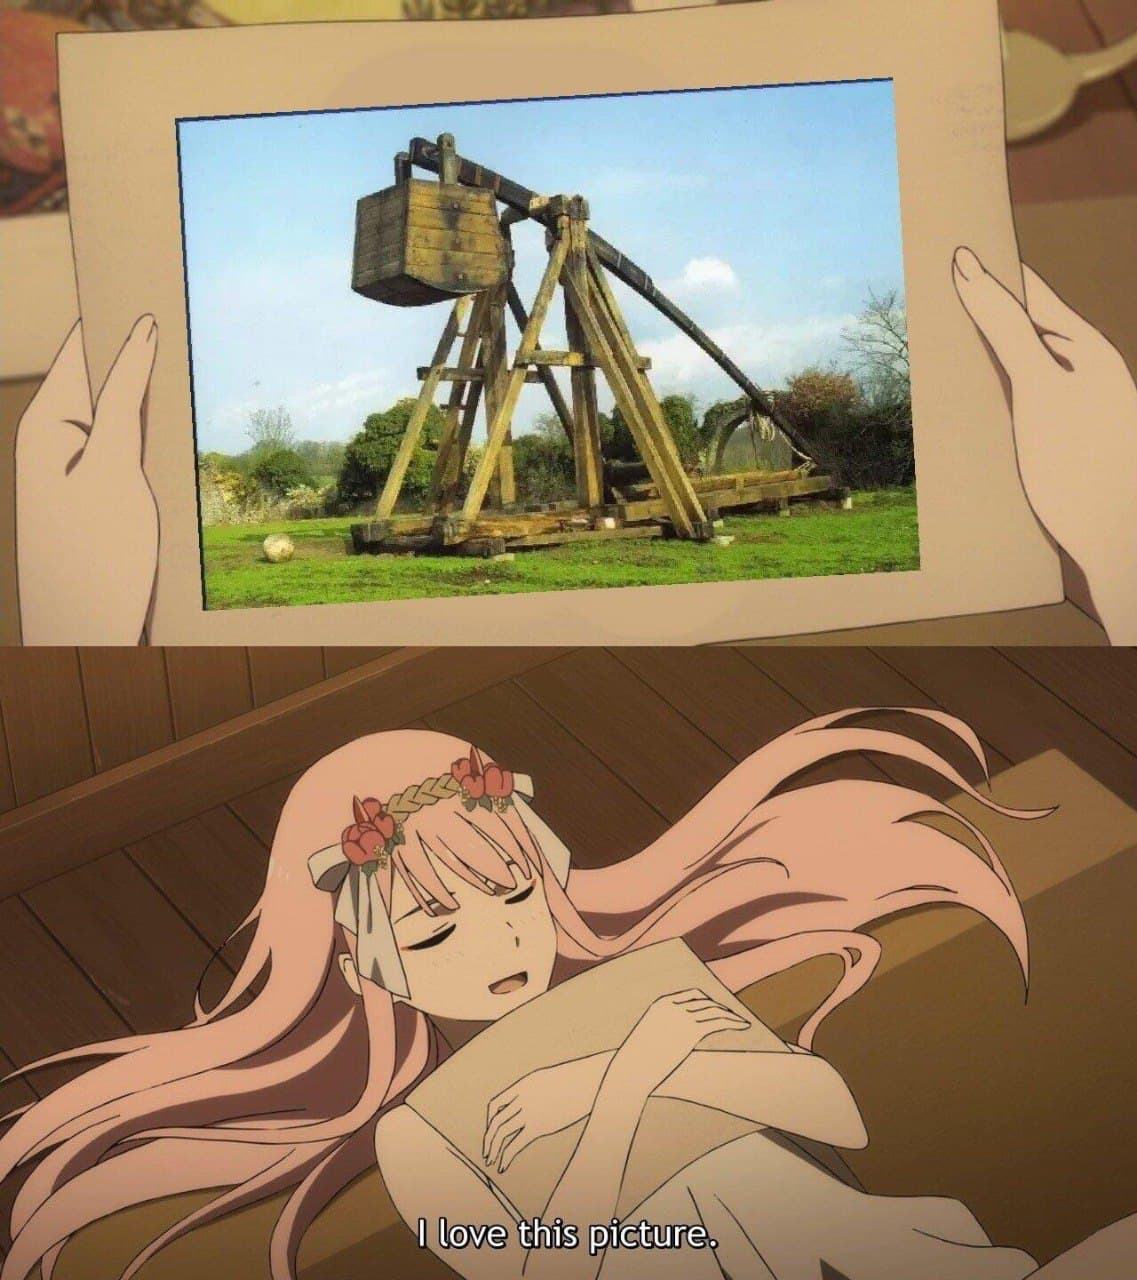
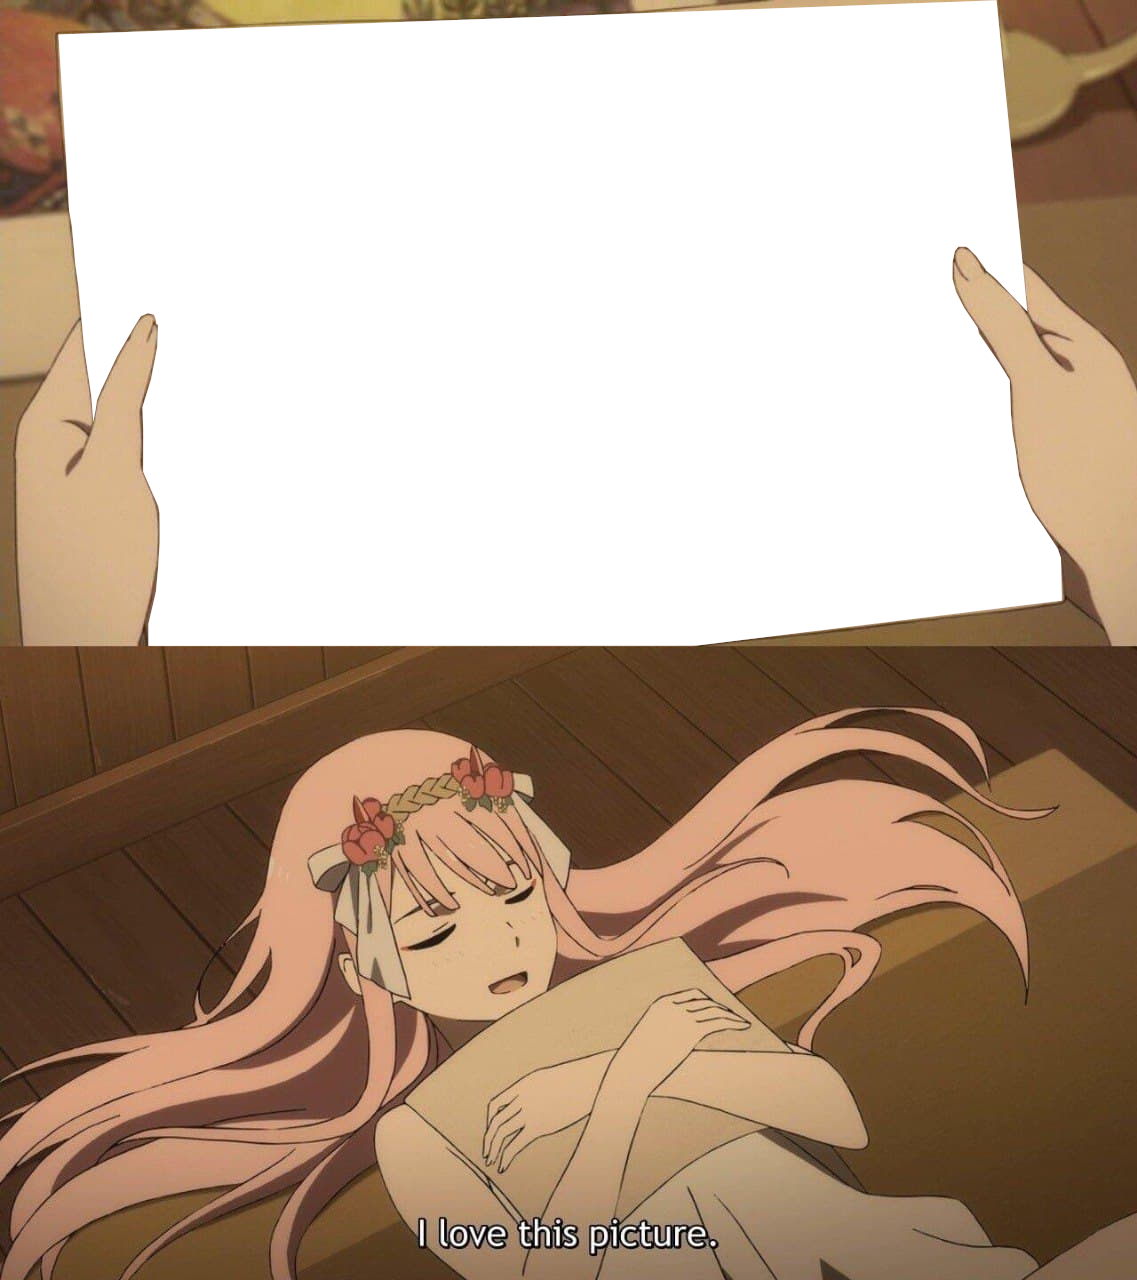
added LICK

diff --git a/meming.py b/meming.py
@@ -1,23 +1,24 @@
+import os
 from ast import literal_eval
 from utils import find_coeffs
 from PIL import Image, ImageOps
 
-template = '2b'
+template = 'lick'
 img = Image.open('input.png')
 
 bg = Image.open(f'templates/{template}/bg.png')
-mask = Image.open(f'templates/{template}/mask.png')
-# preview = Image.open(f'templates/{template}/preview.png')
+masks = [Image.open(f'templates/{template}/{m}') for m in filter(lambda x: x.startswith('mask'), os.listdir(f'templates/{template}'))]
 
 img = img.resize(bg.size)
 
 with open(f'templates/{template}/matrix.txt') as f:
-    matrix = literal_eval(f.read())
+    matrixs = literal_eval(f.read())
 
-coeffs = find_coeffs([(0, 0), (bg.size[0], 0), (bg.size[0], bg.size[1]), (0, bg.size[1])], matrix)
 
-img = img.transform(bg.size, Image.PERSPECTIVE, coeffs, Image.BICUBIC)
+for matrix, mask in zip(matrixs, masks):
+    coeffs = find_coeffs([(0, 0), (bg.size[0], 0), (bg.size[0], bg.size[1]), (0, bg.size[1])], matrix)
+    t = img.transform(bg.size, Image.PERSPECTIVE, coeffs, Image.BICUBIC)
+    bg.paste(t, (0, 0), mask)
 
-bg.paste(img, (0, 0), mask)
 # bg = ImageOps.autocontrast(bg, cutoff=3)
 bg.show()
